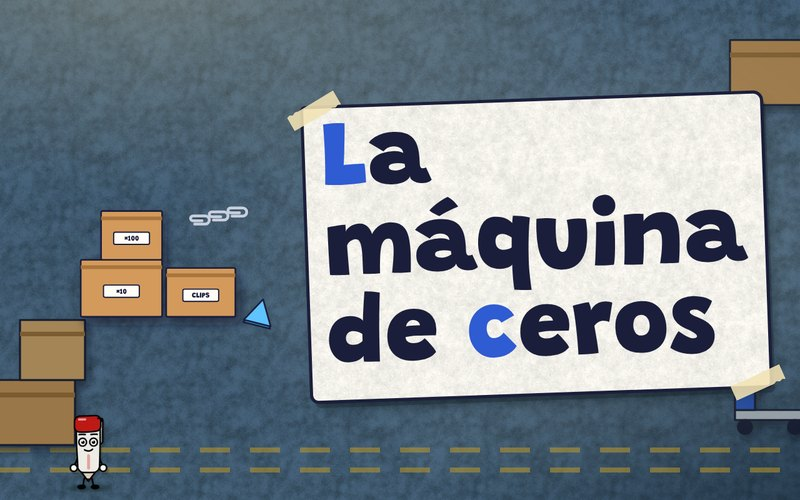
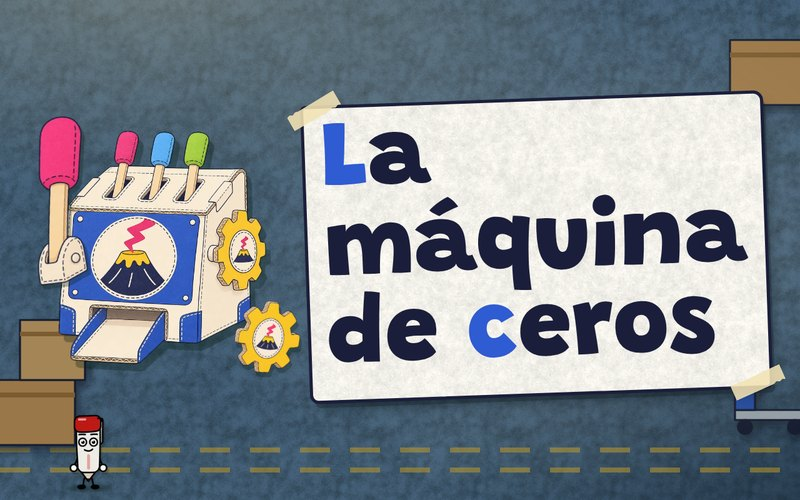
La Gran Limpieza ilustrada: escenas de portada, piezas, pegatinas con silueta, tapas nuevas y objetos de área
Claude-Session: https://claude.ai/code/session_01QUDmSgHLXgaRdHN8Km8PUg

Changed region(s): [[0.0312, 0.21, 0.375, 0.75]]

diff --git a/public/juegos/motores/portada.js b/public/juegos/motores/portada.js
@@ -144,8 +144,12 @@ const ARTE = {
 const FER = new URL('./feria/', import.meta.url).href;
 const CASETAS = { 'la-tombola': ['tombola', 2], 'el-candado-de-la-taquilla': ['taquilla', 3], 'la-caja-registradora': ['caja', 2], 'la-noria': ['noria', 2], 'el-gran-concurso': ['el-gran-concurso', 3] };
 for (const s of ['el-cambio', 'los-patitos', 'las-colchonetas', 'pares-y-nones', 'la-bascula', 'el-martillo-de-fuerza', 'la-tirolina', 'la-caseta-de-los-records', 'tijeras-y-abanicos', 'las-banderolas', 'la-ruleta', 'los-farolillos', 'las-manzanas-de-caramelo', 'las-tiras-de-tickets', 'las-tres-cartas', 'el-puesto-de-chapas', 'los-encargos']) CASETAS[s] = [s, 2];
-const casetaIlustrada = ([n, piezas], titulo) => `<div class="arte arte-caseta-img" aria-hidden="true"><img class="caseta-img" src="${FER}caseta-${n}.webp" alt="" draggable="false">
-    <div class="abertura">${Array.from({ length: piezas }, (_, i) => `<img class="pieza pz${i + 1}" src="${FER}pieza-${n}-${i + 1}.webp" alt="" draggable="false">`).join('')}</div></div>`;
+const LIM = new URL('./limpieza/', import.meta.url).href;
+const ESCENAS = new Set(['aduana-del-estuche', 'la-goma-elastica', 'quien-es-quien', 'el-puzle-del-rincon', 'la-chincheta-que-gira', 'recortables', 'la-mudanza', 'gomas-y-chinchetas', 'pedidos-del-almacen', 'la-maquina-de-ceros', 'las-baldosas-del-recreo', 'la-merienda', 'el-examen-del-viernes']);
+const casetaIlustrada = ([n, piezas], extra = '', base = FER, img = `caseta-${n}`) => `<div class="arte arte-caseta-img ${extra}" aria-hidden="true"><img class="caseta-img" src="${base}${img}.webp" alt="" draggable="false">
+    <div class="abertura">${Array.from({ length: piezas }, (_, i) => `<img class="pieza pz${i + 1}" src="${base}pieza-${n}-${i + 1}.webp" alt="" draggable="false">`).join('')}</div></div>`;
+// La Gran Limpieza: la escena ilustrada de cada juego sobre la mesa, con sus dos piezas sueltas
+const escenaIlustrada = (n) => casetaIlustrada([n, 2], 'arte-escena-img', LIM, `escena-${n}`);
 
 export function portada(config, { dibuja, POSES, quien, progreso = 0, record = null, sonar = () => {}, frase: fraseHola = '¿Jugamos?', volver = '../../' }) {
   return new Promise((listo) => {
@@ -172,8 +176,9 @@ export function portada(config, { dibuja, POSES, quien, progreso = 0, record = n
     const texto = h('div', 'portada-texto'); texto.append(etiqueta, objetivo, jugar, estado);
     const AREA = { matematicas: 'MATES', lengua: 'LENGUA', naturales: 'NATURALES', sociales: 'SOCIALES' };
     const rotulo = config.portada?.rotulo ?? (tipo === 'cajon' ? AREA[config.area] || 'CAJÓN' : '');
-    const caseta = config.escena === 'feria' && CASETAS[location.pathname.split('/').filter(Boolean).pop()];
-    const arte = h('div', 'portada-arte', caseta ? casetaIlustrada(caseta) : (ARTE[tipo] || ARTE.cajon)(rotulo));
+    const slug = location.pathname.split('/').filter(Boolean).pop();
+    const caseta = config.escena === 'feria' && CASETAS[slug];
+    const arte = h('div', 'portada-arte', caseta ? casetaIlustrada(caseta) : ESCENAS.has(slug) ? escenaIlustrada(slug) : (ARTE[tipo] || ARTE.cajon)(rotulo));
     const fig = h('div', 'portada-figura figura ' + quien, dibuja(quien, 'saluda', { veces: 2, luego: 'reposo' }));
     const frase = h('div', 'portada-bocadillo bocadillo');
     frase.textContent = config.portada?.frase || fraseHola;

diff --git a/public/juegos/motores/mapa.js b/public/juegos/motores/mapa.js
@@ -14,7 +14,7 @@ const guarda = (k, v) => { try { localStorage.setItem(k, v); } catch {} };
 const hecho = (slug) => !!lee('cajon-hecho:' + ruta(slug));
 const lento = () => matchMedia('(prefers-reduced-motion: reduce)').matches;
 
-import { DIBUJOS, PREMIOS, imgPremio, pegatina } from './pegatinas.js';
+import { DIBUJOS, PREMIOS, LIMPIEZA, imgPremio, imgPegatina, pegatina } from './pegatinas.js';
 import { actua } from './sprites.js';
 
 export async function montaMapa(c) {
@@ -74,7 +74,7 @@ export async function montaMapa(c) {
     const capa = el('div', { class: 'vineta-capa album-capa', role: 'dialog', 'aria-modal': 'true', 'aria-label': 'Álbum de pegatinas' });
     const hoja = el('div', { class: 'album' },
       el('div', { class: 'cab-album' }, el('h2', { text: X.albumTitulo }), el('p', { text: `${conseguidas.length} de ${todos.length}. ${X.albumTexto}` })),
-      el('ul', { class: 'hoja-album' }, todos.map((j) => el('li', { class: hecho(j.slug) ? 'tiene' : 'falta' }, hecho(j.slug) ? pegatina(j.slug) : el('span', { class: 'hueco-pegatina', text: '?' }), el('small', { text: j.titulo })))),
+      el('ul', { class: 'hoja-album' }, todos.map((j) => el('li', { class: hecho(j.slug) ? 'tiene' : 'falta' }, hecho(j.slug) ? pegatina(j.slug) : LIMPIEZA.has(j.slug) ? el('span', { class: 'hueco-pegatina con-silueta', html: imgPegatina(j.slug, true) }) : el('span', { class: 'hueco-pegatina', text: '?' }), el('small', { text: j.titulo })))),
       el('button', { type: 'button', class: 'tecla primaria grande', text: 'Cerrar', onclick: () => { capa.remove(); suena('quita'); } }));
     capa.append(hoja); document.body.append(capa);
     capa.addEventListener('click', (e) => { if (e.target === capa) capa.remove(); });

diff --git a/public/juegos/motores/pegatinas.js b/public/juegos/motores/pegatinas.js
@@ -52,7 +52,12 @@ export const PREMIOS = {
   'el-puesto-de-chapas': 'la tortuga de la antena', 'los-encargos': 'el perro de las gafas de aviador', 'el-gran-concurso': 'el león de la capa',
 };
 export const imgPremio = (slug, silueta = false) => `<img src="${RUTA}${slug}${silueta ? '-silueta' : ''}.webp" alt="${silueta ? '' : PREMIOS[slug]}" width="320" height="320" draggable="false" decoding="async">`;
+// La Gran Limpieza del Cajón: pegatinas ilustradas (con su silueta gris para los huecos del álbum)
+const LIM = new URL('./limpieza/', import.meta.url).href;
+export const LIMPIEZA = new Set(['aduana-del-estuche', 'la-goma-elastica', 'quien-es-quien', 'el-puzle-del-rincon', 'la-chincheta-que-gira', 'recortables', 'la-mudanza', 'gomas-y-chinchetas', 'pedidos-del-almacen', 'la-maquina-de-ceros', 'las-baldosas-del-recreo', 'la-merienda', 'el-examen-del-viernes']);
+export const imgPegatina = (slug, silueta = false) => `<img src="${LIM}premio-${slug}${silueta ? '-silueta' : ''}.webp" alt="" width="320" height="320" draggable="false" decoding="async">`;
 export const pegatina = (slug, cls = '') => PREMIOS[slug]
   ? el('span', { class: 'pegatina-album premio-feria ' + cls, html: imgPremio(slug) })
+  : LIMPIEZA.has(slug) ? el('span', { class: 'pegatina-album pegatina-img ' + cls, html: imgPegatina(slug) })
   : el('span', { class: 'pegatina-album ' + cls, html: DIBUJOS[slug] ?? P('', '#ffc531') });
 

diff --git a/public/juegos/motores/feria.css b/public/juegos/motores/feria.css
@@ -476,3 +476,15 @@ button.pieza-angulo:hover{transform:translateY(-3px)}
 .arte-caseta-img .pz2{right:2%;bottom:6%;rotate:7deg}
 .arte-caseta-img .pz3{right:4%;top:4%;width:20%;rotate:-5deg}
 @media (max-width:820px){.portada-arte .arte-caseta-img{aspect-ratio:16/11;width:min(100%,460px)}.arte-caseta-img .pieza{width:21%}}
+/* La Gran Limpieza: escena ilustrada de cada juego en la portada, con dos piezas sueltas */
+.portada-arte .arte-caseta-img.arte-escena-img{aspect-ratio:1/1;width:min(100%,600px)}
+.arte-escena-img .caseta-img{top:50%;max-width:86%;max-height:90%;height:auto;translate:-50% -50%;filter:drop-shadow(8px 12px 0 rgba(10,30,20,.32))}
+.arte-escena-img .pieza{width:25%;filter:drop-shadow(4px 7px 0 rgba(10,30,20,.32))}
+.arte-escena-img .pz1{left:-2%;top:2%;rotate:-9deg}
+.arte-escena-img .pz2{right:-3%;bottom:0;rotate:8deg}
+@media (max-width:820px){.portada-arte .arte-caseta-img.arte-escena-img{aspect-ratio:4/3;width:min(100%,420px)}.arte-escena-img .pieza{width:22%}}
+/* pegatinas ilustradas del álbum y sus huecos en silueta */
+.pegatina-album.pegatina-img img,.hueco-pegatina.con-silueta img{width:100%;height:100%;display:block;object-fit:contain}
+.pegatina-album.pegatina-img{rotate:-4deg}
+.hueco-pegatina.con-silueta{border:0;opacity:.55}
+.premio-pegatina .pegatina-album.pegatina-img{width:120px;height:120px;margin:-14px -4px -10px}

diff --git a/herramientas/recorta_limpieza.py b/herramientas/recorta_limpieza.py
@@ -1,0 +1,30 @@
+# Recorta la escena de cada portada de La Gran Limpieza (fondo plano #2e7d5b) y la guarda en WebP con sus piezas y premios.
+# Quita el verde conectado con los bordes y también los huecos interiores que sean verde exacto (las gomas, los recortables...).
+import sys, numpy as np, json
+from PIL import Image, ImageFilter
+from scipy import ndimage
+src, dst = sys.argv[1], sys.argv[2]
+VERDE = np.array([46, 125, 91])
+man = json.load(open(f'{src}/manifest.json'))
+for j in man['juegos']:
+    n = j['clave']
+    a = np.array(Image.open(f'{src}/{j["portada"]}').convert('RGBA')).astype(int)
+    d = np.abs(a[..., :3] - VERDE).sum(-1)
+    lab, k = ndimage.label(d < 30)
+    borde = set(np.unique(np.concatenate([lab[0], lab[-1], lab[:, 0], lab[:, -1]]))) - {0}
+    quita = np.isin(lab, list(borde))
+    lab2, k2 = ndimage.label(d < 10)
+    tam = ndimage.sum(np.ones_like(d), lab2, range(1, k2 + 1))
+    huecos = [i + 1 for i, t in enumerate(tam) if t >= 120]
+    quita |= np.isin(lab2, huecos)
+    alfa = (~quita).astype(np.uint8) * 255
+    m = Image.fromarray(alfa).filter(ImageFilter.MinFilter(3)).filter(ImageFilter.GaussianBlur(0.7))
+    out = Image.fromarray(a.astype(np.uint8)); out.putalpha(m)
+    bb = out.getbbox(); out = out.crop(bb)
+    print(n, bb, 'huecos', len(huecos))
+    out.save(f'{dst}/escena-{n}.webp', quality=86, method=6)
+    for i, p in enumerate(j['piezas'], 1):
+        im = Image.open(f'{src}/{p}'); im = im.crop(im.getbbox())
+        im.thumbnail((360, 360)); im.save(f'{dst}/pieza-{n}-{i}.webp', quality=86, method=6)
+    for s, suf in ((j['pegatina'], ''), (j['silueta'], '-silueta')):
+        im = Image.open(f'{src}/{s}'); im.thumbnail((320, 320)); im.save(f'{dst}/premio-{n}{suf}.webp', quality=88, method=6)
